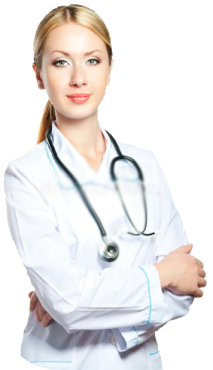
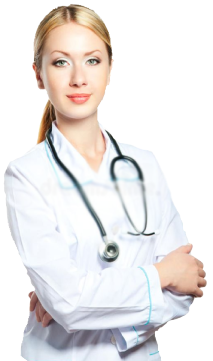
Increase the container size

diff --git a/app/page.tsx b/app/page.tsx
@@ -1,111 +1,14 @@
-"use client";
-import { useState } from "react";
-import Image from "next/image";
+import Signup from "./component/signup";
 
-export default function Signup() {
-  const [showPassword, setShowPassword] = useState(false);
+import React from 'react'
 
-  const togglePasswordVisibility = () => {
-    setShowPassword(!showPassword);
-  };
-
+const page = () => {
   return (
-    <div className="min-h-screen bg-gradient-to-b from-orange-200 via-orange-300 to-green-400 flex items-center justify-center">
-      <div className="bg-zinc-300 bg-opacity-75 rounded-lg shadow-lg p-4 max-w-md w-full space-y-8 flex relative">
-        {/* Pentagon shape */}
-        <div className="fixed m-28 flex items-center pointer-events-none z-10">
-          <svg
-            className="text-orange-300"
-            width="350"
-            height="380"
-            viewBox="0 0 350 380"
-            fill="currentColor"
-          >
-            <polygon points="200 50, 300 140, 280 300, 120 300, 100 140" />
-          </svg>
-        </div> 
-
-        {/* Signup content */}
-        <div className="w-1/2 z-10 mr-2">
-          <div className="text-center">
-            <div className="text-center"></div>
-            <Image src="/logo.svg" alt="Logo" width={50} height={15} />
-            <h2 className="mt-6 text-2xl font-extrabold text-gray-900">
-              Sign in to get started!
-            </h2>
-          </div>
-
-          <form className="mt-2 space-y-6" action="#" method="POST">
-            <div>
-              <input
-                id="user"
-                name="user"
-                type="text"
-                placeholder="User Name"
-                autoComplete="username"
-                required
-                className="block w-full px-3 py-2 border rounded-md shadow-sm placeholder-gray-400 focus:outline-none focus:ring-indigo-500 focus:border-indigo-500 sm:text-sm bg-gray-100"
-              />
-            </div>
-            <div className="relative">
-              <input
-                id="password"
-                name="password"
-                type={showPassword ? "text" : "password"}
-                placeholder="Password"
-                autoComplete="current-password"
-                required
-                className="appearance-none block w-full px-3 py-2 border rounded-md shadow-sm placeholder-gray-400 focus:outline-none focus:ring-indigo-500 focus:border-indigo-500 sm:text-sm bg-gray-100"
-              />
-              <button
-                type="button"
-                className="absolute inset-y-0 right-0 pr-3 flex items-center"
-                onClick={togglePasswordVisibility}
-              >
-                <Image
-                  src="/eye-password-see-view 1.svg"
-                  alt="Eye Icon"
-                  width={15}
-                  height={15}
-                />
-              </button>
-            </div>
-            <div className="text-right">
-              <a
-                href="#"
-                className="text-sm font-semibold text-amber-600 hover:text-amber-400"
-              >
-                Forgot password?
-              </a>
-            </div>
-            <button
-              type="submit"
-              className="w-full py-2 px-4 border border-transparent rounded-md shadow-sm text-sm font-semibold text-white bg-green-600 hover:bg-green-700 focus:outline-none focus:ring-2 focus:ring-offset-2 focus:ring-indigo-500"
-            >
-              Sign in
-            </button>
-          </form>
-
-          <p className="mt-2 text-sm text-gray-600">
-            Not signed up?{" "}
-            <a
-              href="#"
-              className="font-semibold text-amber-600 hover:text-amber-500"
-            >
-              Sign up
-            </a>
-          </p>
-        </div>
-
-        {/* Image */}
-        <div className="w-1/2 flex justify-center items-center z-10">
-          <img
-            src="/Women pic.png"
-            alt="Doctor Image"
-            className="w-30 h-30 ml-4 object-cover rounded-lg shadow-lg"
-          />
-        </div>
+    <div>
+      <Signup/>
       </div>
-    </div>
-  );
+  )
 }
+
+export default page
+

diff --git a/app/component/signup.tsx b/app/component/signup.tsx
@@ -1,0 +1,109 @@
+"use client";
+import { useState } from "react";
+import Image from "next/image";
+
+export default function Signup() {
+  const [showPassword, setShowPassword] = useState(false);
+
+  const togglePasswordVisibility = () => {
+    setShowPassword(!showPassword);
+  };
+
+  return (
+    <div className="min-h-screen bg-gradient-to-b from-orange-200 via-orange-300 to-green-400 flex items-center justify-center">
+      <div className="bg-zinc-300 bg-opacity-75 rounded-lg shadow-lg p-8 max-w-xl w-full space-y-8 flex relative">
+        {/* Pentagon shape motion */}
+        <div className="fixed ml-48 mt-20 flex items-center pointer-events-none z-10">
+          <svg
+            className="text-orange-300"
+            width="350"
+            height="380"
+            viewBox="0 0 350 380"
+            fill="currentColor"
+          >
+            <polygon points="200 50, 300 140, 280 300, 120 300, 100 140" />
+          </svg>
+        </div>
+        {/* Signup content */}
+        <div className="w-fullw-1/2 z-10 mr-2">
+          <div className="text-center">
+            <div className="text-center"></div>
+            <Image src="/logo.svg" alt="Logo" width={50} height={15} />
+            <h2 className="mt-4 text-2xl font-extrabold text-gray-900">
+              Sign in to get started!
+            </h2>
+          </div>
+
+          <form className="mt-4 space-y-6" action="#" method="POST">
+            <div>
+              <input
+                id="user"
+                name="user"
+                type="text"
+                placeholder="User Name"
+                autoComplete="username"
+                required
+                className="block w-full px-3 py-2 border rounded-md shadow-sm placeholder-gray-400 focus:outline-none focus:ring-orange-300 focus:border-orange-300 sm:text-sm bg-gray-100"
+              />
+            </div>
+            <div className="relative">
+              <input
+                id="password"
+                name="password"
+                type={showPassword ? "text" : "password"}
+                placeholder="Password"
+                autoComplete="current-password"
+                required
+                className="appearance-none block w-full px-3 py-2 border rounded-md shadow-sm placeholder-gray-400 focus:outline-none focus:ring-orange-300 focus:border-orange-300 sm:text-sm bg-gray-100"
+              />
+              <button
+                type="button"
+                className="absolute inset-y-0 right-0 pr-3 flex items-center"
+                onClick={togglePasswordVisibility}
+              >
+                <Image
+                  src="/eye-password-see-view 1.svg"
+                  alt="Eye Icon"
+                  width={15}
+                  height={15}
+                />
+              </button>
+            </div>
+            <div className="text-right">
+              <a
+                href="#"
+                className="text-sm font-semibold text-amber-600 hover:text-amber-400"
+              >
+                Forgot password?
+              </a>
+            </div>
+            <button
+              type="submit"
+              className="w-full py-2 px-4 border border-transparent rounded-md shadow-sm text-sm font-semibold text-white bg-green-600 hover:bg-green-700 focus:outline-none focus:ring-2 focus:ring-offset-2 focus:ring-indigo-500"
+            >
+              Sign in
+            </button>
+          </form>
+
+          <p className="mt-2 text-sm text-gray-600">
+            Not signed up?{" "}
+            <a
+              href="#"
+              className="font-semibold text-amber-600 hover:text-amber-500"
+            >
+              Sign up
+            </a>
+          </p>
+        </div>
+        {/* Image */}
+        <div className="w-1/2 flex justify-center items-center z-10">
+          <img
+            src="/Women pic.png"
+            alt="Doctor Image"
+            className="w-30 h-30 ml-4 object-cover"
+          />
+        </div>
+      </div>
+    </div>
+  );
+}

diff --git a/app/globals.css b/app/globals.css
@@ -2,3 +2,46 @@
 @tailwind base;
 @tailwind components;
 @tailwind utilities;
+
+
+/* styles.css */
+.column-slno {
+    background-color: #fed7d7;
+    /* Tailwind's red-200 color */
+}
+
+.column-rollno {
+    background-color: #fed7d7;
+}
+
+.column-name {
+    background-color: #fed7d7;
+}
+
+.column-merit {
+    background-color: #fed7d7;
+}
+
+.column-sex {
+    background-color: #fed7d7;
+}
+
+.column-quota {
+    background-color: #fed7d7;
+}
+
+.column-test {
+    background-color: #fed7d7;
+}
+
+.column-score {
+    background-color: #fed7d7;
+}
+
+.column-status {
+    background-color: #fed7d7;
+}
+
+.column-edit {
+    background-color: #fed7d7;
+}
